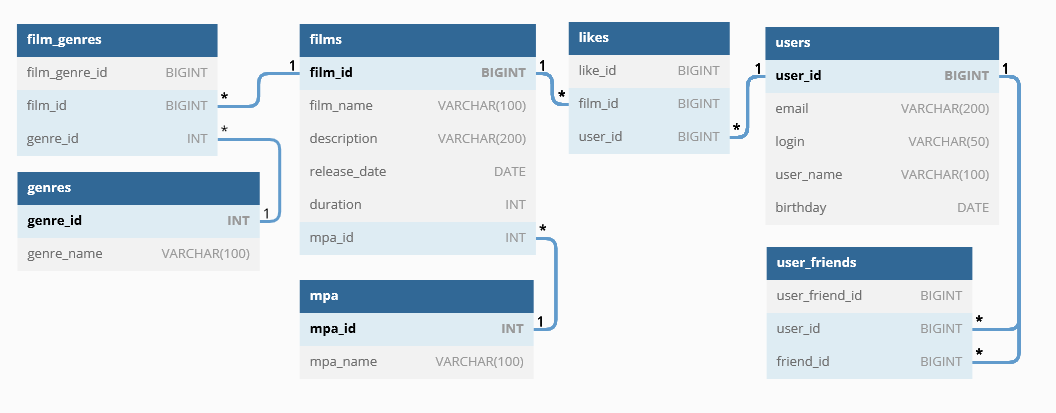
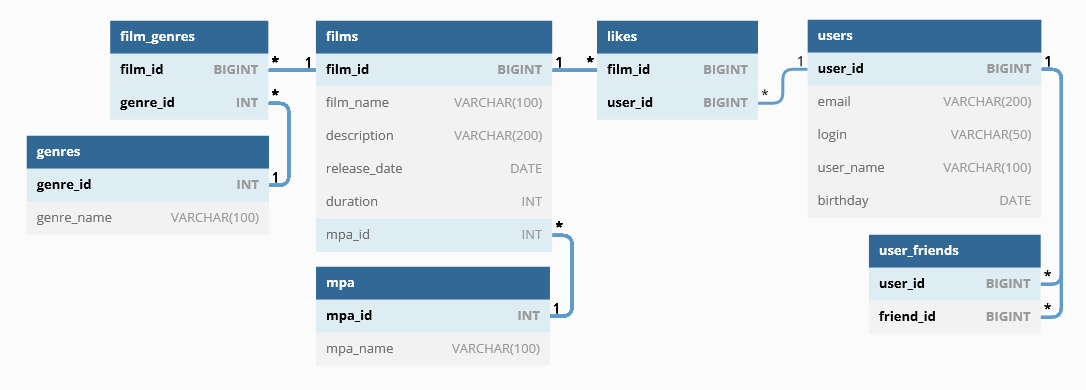
fix: использовать составной ключ для таблиц-связок

diff --git a/src/main/java/ru/yandex/practicum/filmorate/storage/DbFilmStorage.java b/src/main/java/ru/yandex/practicum/filmorate/storage/DbFilmStorage.java
@@ -214,7 +214,9 @@ public class DbFilmStorage implements FilmStorage, RowMapper<Film> {
 
     @Override
     public List<Film> getPopularFilms(int count) {
-        String sql = "SELECT f.film_id, f.film_name, f.description, f.release_date, f.duration, f.mpa_id, COUNT(l.like_id) cnt FROM films f " +
+        String sql = "SELECT f.film_id, f.film_name, f.description, f.release_date, f.duration, f.mpa_id, " +
+                "COUNT(l.user_id) cnt " +
+                "FROM films f " +
                 "LEFT JOIN likes l on f.film_id = l.film_id " +
                 "GROUP BY f.film_id, f.film_name, f.description, f.release_date, f.duration, f.mpa_id " +
                 "ORDER BY cnt DESC, f.film_id " +
